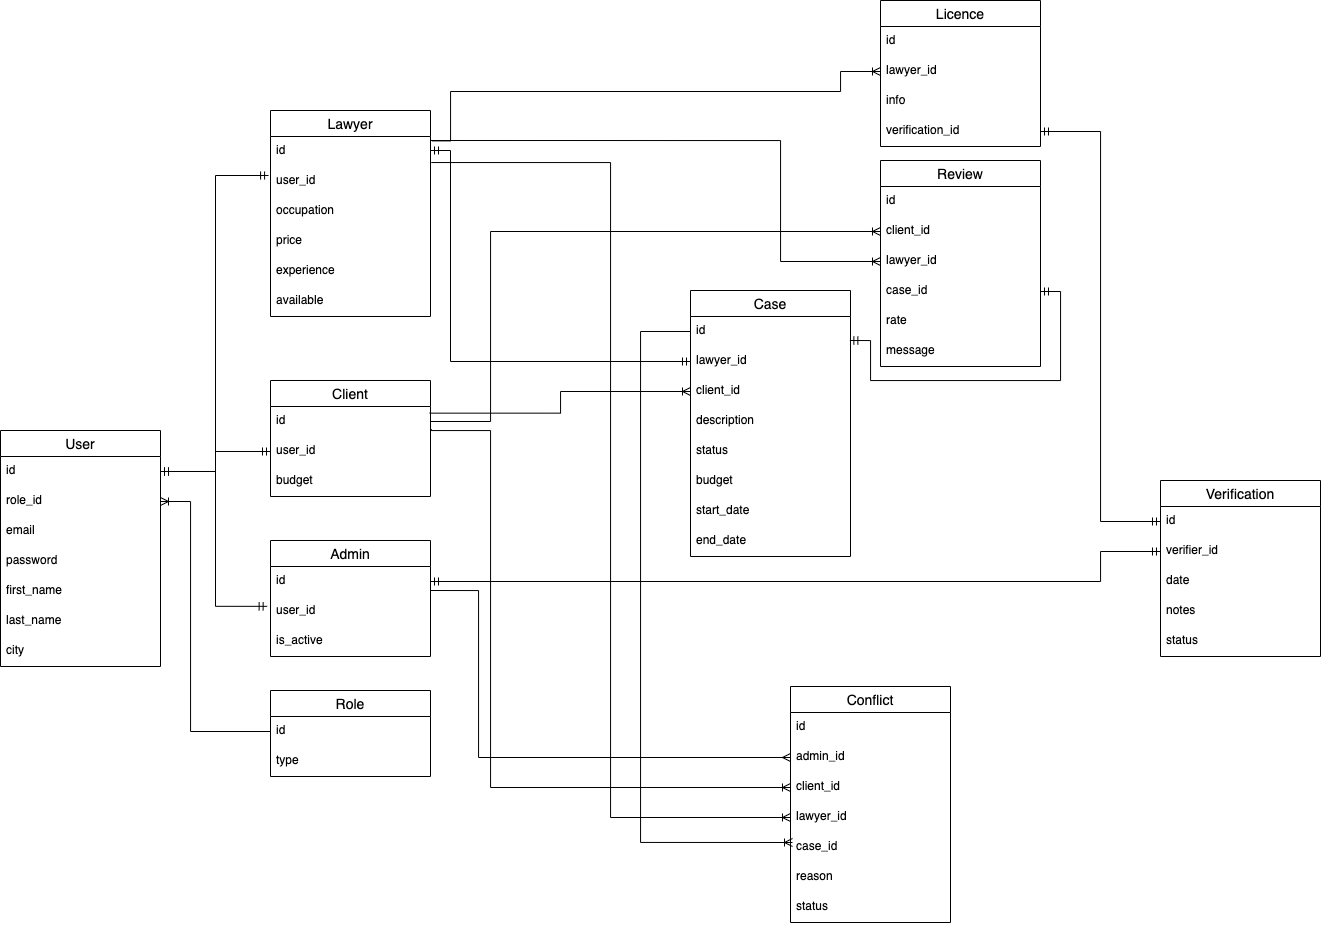
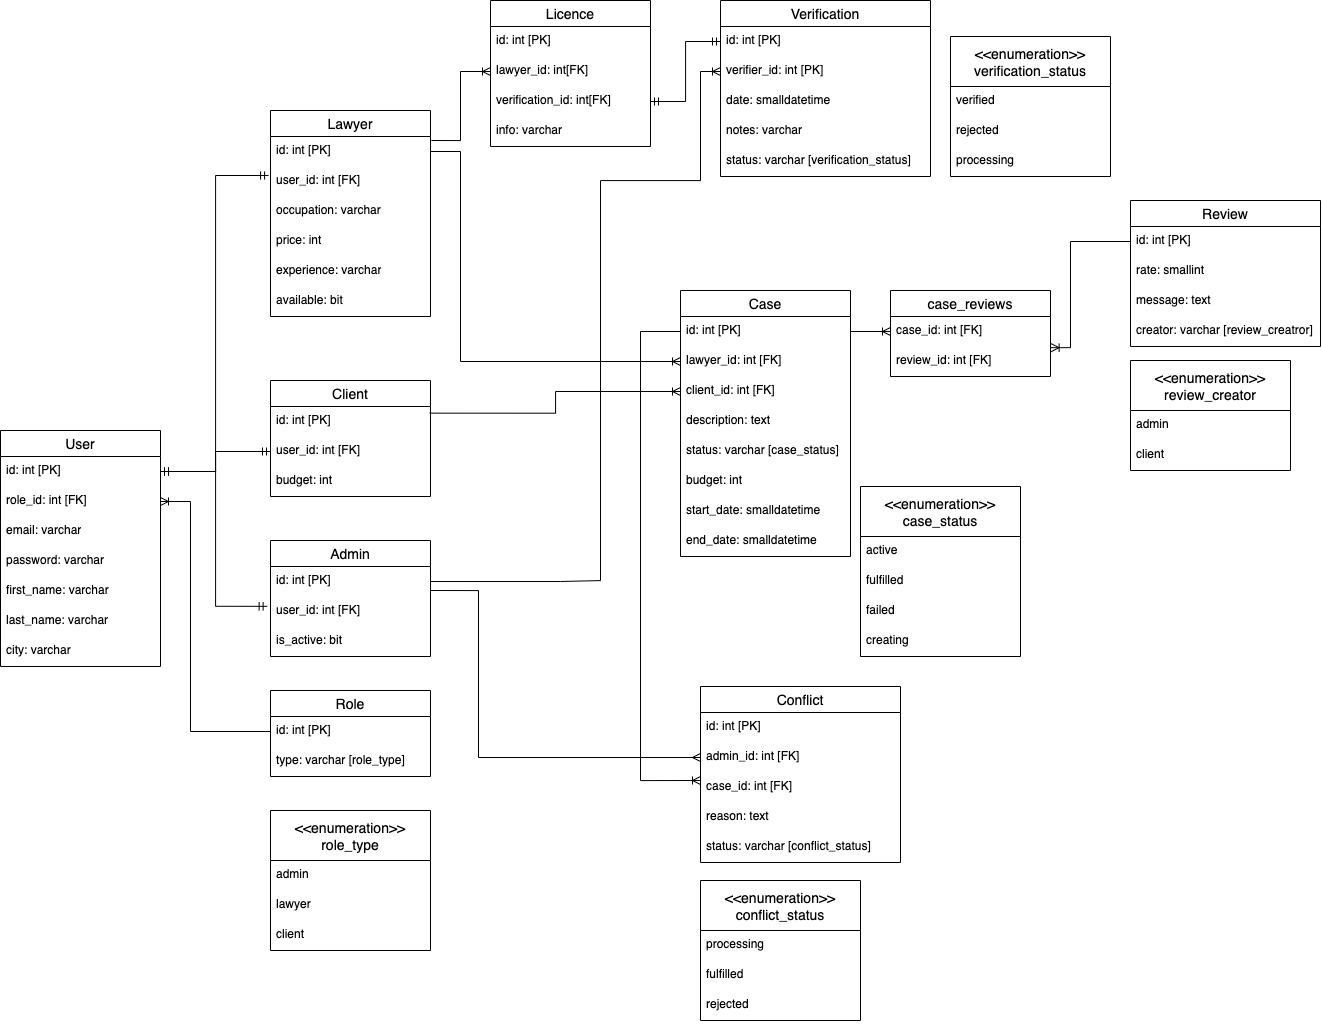
updated db schema

diff --git a/README.md b/README.md
@@ -1602,18 +1602,16 @@ Expected response `200 OK`
   "result": [
     {
       "id": "1",
-      "cliendId": "1",
-      "lawyerId": "1",
       "caseId": "1",
       "rate": "[1-5]",
+      "creator": "admin | client",
       "message": "Very cool lawyer"
     },
     {
       "id": "2",
-      "cliendId": "12",
-      "lawyerId": "113",
-      "caseId": "89",
+      "caseId": "2",
       "rate": "[1-5]",
+      "creator": "admin | client",
       "message": "Very cool lawyer"
     }
   ]
@@ -1640,10 +1638,9 @@ Expected response `200 OK`
 {
   "result": {
     "id": "1",
-    "cliendId": "1",
-    "lawyerId": "1",
     "caseId": "1",
     "rate": "[1-5]",
+    "creator": "admin | client",
     "message": "Very cool lawyer"
   }
 }
@@ -1667,10 +1664,9 @@ Request body example
 
 ```json
 {
-  "cliendId": "1",
-  "lawyerId": "1",
   "caseId": "1",
   "rate": "[1-5]",
+  "creator": "admin | client",
   "message": "Very cool lawyer"
 }
 ```
@@ -1681,10 +1677,9 @@ Expected response `200 OK`
 {
   "result": {
     "id": "1",
-    "cliendId": "1",
-    "lawyerId": "1",
     "caseId": "1",
     "rate": "[1-5]",
+    "creator": "admin | client",
     "message": "Very cool lawyer"
   }
 }
@@ -1718,11 +1713,10 @@ Expected response `200 OK`
 {
   "result": {
     "id": "1",
-    "cliendId": "1",
-    "lawyerId": "1",
     "caseId": "1",
     "rate": "[1-5]",
-    "message": "Lawyer is very bad"
+    "creator": "admin | client",
+    "message": "Very cool lawyer"
   }
 }
 ```
@@ -1747,10 +1741,9 @@ Expected response `200 OK`
 {
   "result": {
     "id": "1",
-    "cliendId": "1",
-    "lawyerId": "1",
     "caseId": "1",
     "rate": "[1-5]",
+    "creator": "admin | client",
     "message": "Very cool lawyer"
   }
 }
@@ -2234,20 +2227,16 @@ Expected response `200 OK`
     {
       "id": "1",
       "adminId": "1",
-      "clientId": "1",
-      "lawyerId": "1",
       "caseId": "1",
       "reason": "Lawyer stole my money",
-      "status": "proccessing | fulfilled | rejected"
+      "status": "processing | fulfilled | rejected"
     },
     {
       "id": "2",
       "adminId": "2",
-      "clientId": "2",
-      "lawyerId": "2",
       "caseId": "2",
       "reason": "Lawyer is very bad",
-      "status": "proccessing | fulfilled | rejected"
+      "status": "processing | fulfilled | rejected"
     }
   ]
 }
@@ -2274,11 +2263,9 @@ Expected response `200 OK`
   "result": {
     "id": "1",
     "adminId": "1",
-    "clientId": "1",
-    "lawyerId": "1",
     "caseId": "1",
     "reason": "Lawyer stole my money",
-    "status": "proccessing | fulfilled | rejected"
+    "status": "processing | fulfilled | rejected"
   }
 }
 ```
@@ -2302,11 +2289,9 @@ Request body example
 ```json
 {
   "adminId": "1",
-  "clientId": "1",
-  "lawyerId": "1",
   "caseId": "1",
   "reason": "Lawyer stole my money",
-  "status": "proccessing | fulfilled | rejected"
+  "status": "processing | fulfilled | rejected"
 }
 ```
 
@@ -2317,11 +2302,9 @@ Expected response `200 OK`
   "result": {
     "id": "1",
     "adminId": "1",
-    "clientId": "1",
-    "lawyerId": "1",
     "caseId": "1",
     "reason": "Lawyer stole my money",
-    "status": "proccessing | fulfilled | rejected"
+    "status": "processing | fulfilled | rejected"
   }
 }
 ```
@@ -2331,7 +2314,7 @@ Expected errors `400 Bad request`
 ```json
 {
   "error": {
-    "message": "Client with id {clientId} does not exist"
+    "message": "Conflict with id {id} does not exist"
   }
 }
 ```
@@ -2355,11 +2338,9 @@ Expected response `200 OK`
   "result": {
     "id": "1",
     "adminId": "1",
-    "clientId": "1",
-    "lawyerId": "1",
     "caseId": "1",
     "reason": "Lawyer stole my time",
-    "status": "proccessing | fulfilled | rejected"
+    "status": "processing | fulfilled | rejected"
   }
 }
 ```
@@ -2385,11 +2366,9 @@ Expected response `200 OK`
   "result": {
     "id": "1",
     "adminId": "1",
-    "clientId": "1",
-    "lawyerId": "1",
     "caseId": "1",
     "reason": "Lawyer stole my money",
-    "status": "proccessing | fulfilled | rejected"
+    "status": "processing | fulfilled | rejected"
   }
 }
 ```
@@ -2417,8 +2396,6 @@ Expected response `200 OK`
   "result": {
     "id": "1",
     "adminId": "1",
-    "clientId": "1",
-    "lawyerId": "1",
     "caseId": "1",
     "reason": "Lawyer stole my time",
     "status": "fulfilled"
@@ -2449,8 +2426,6 @@ Expected response `200 OK`
   "result": {
     "id": "1",
     "adminId": "1",
-    "clientId": "1",
-    "lawyerId": "1",
     "caseId": "1",
     "reason": "Lawyer stole my time",
     "status": "rejected"
